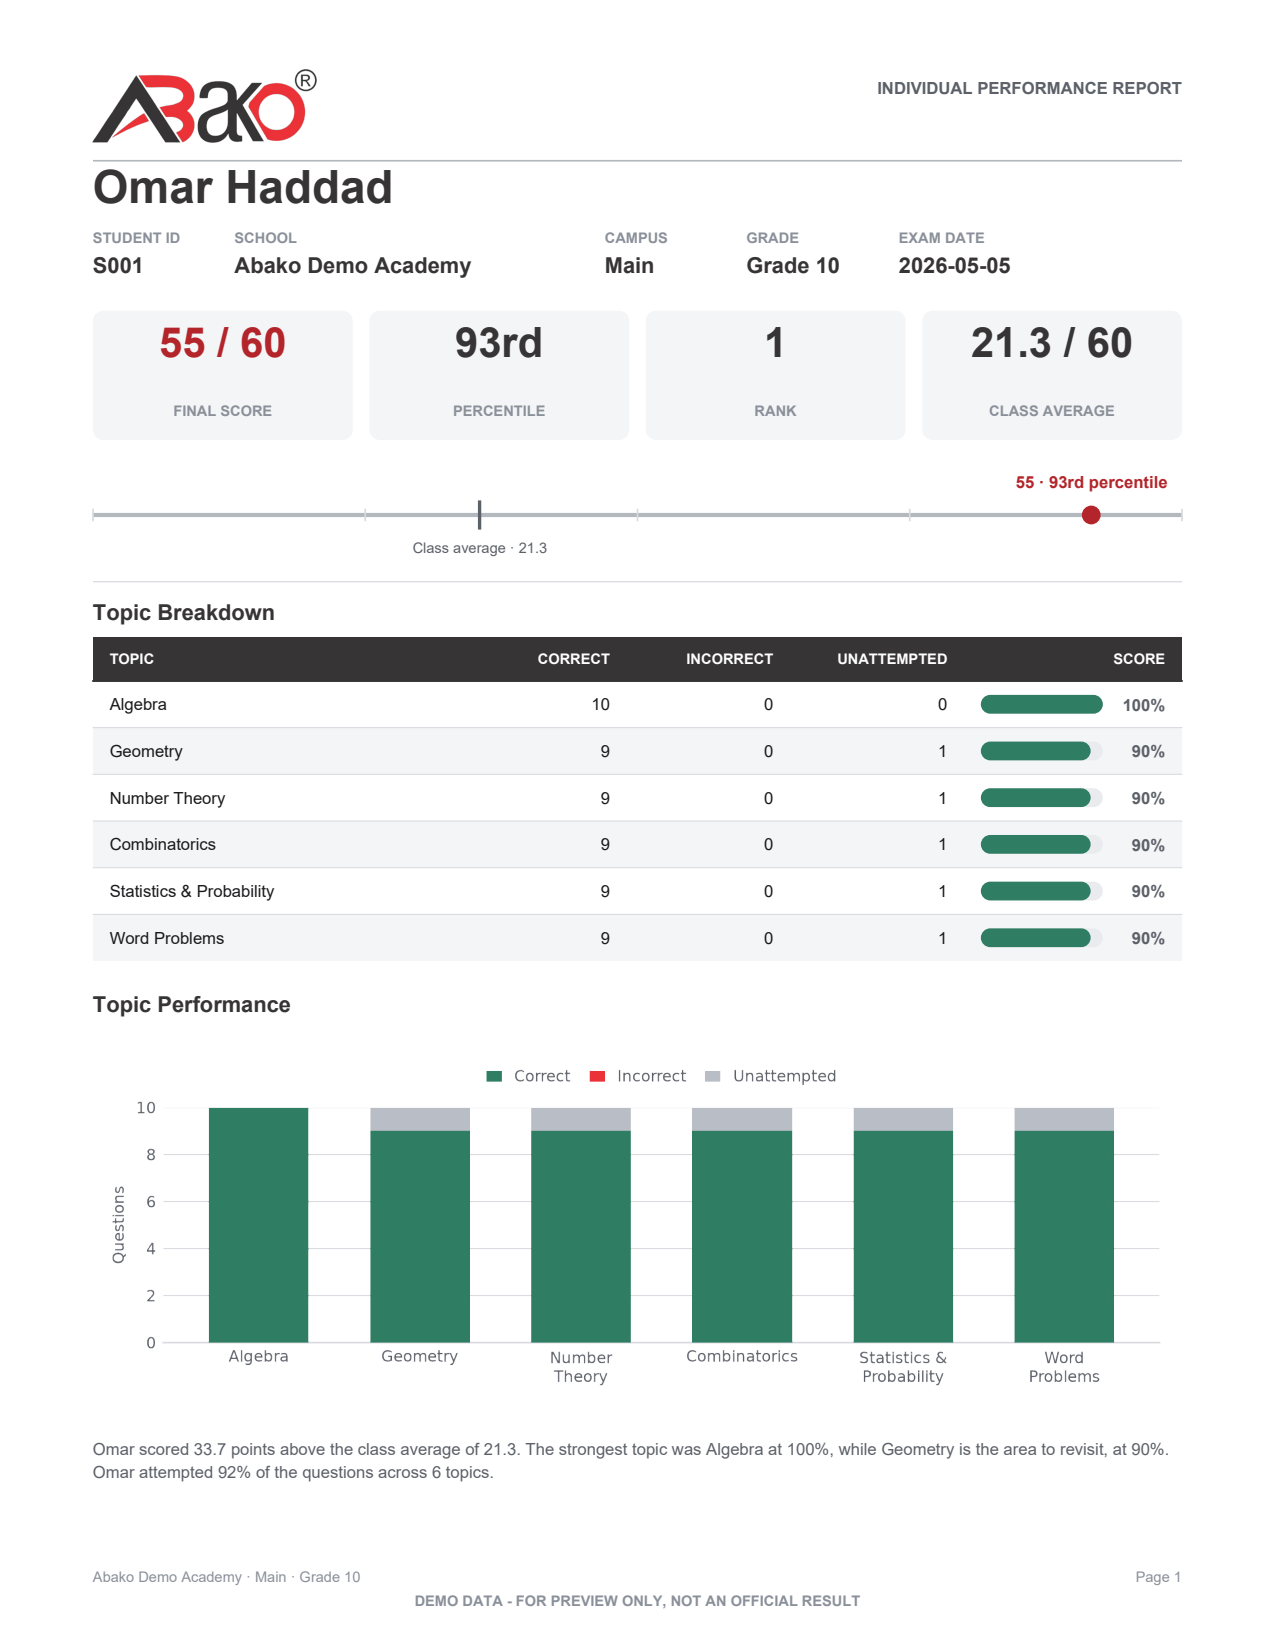
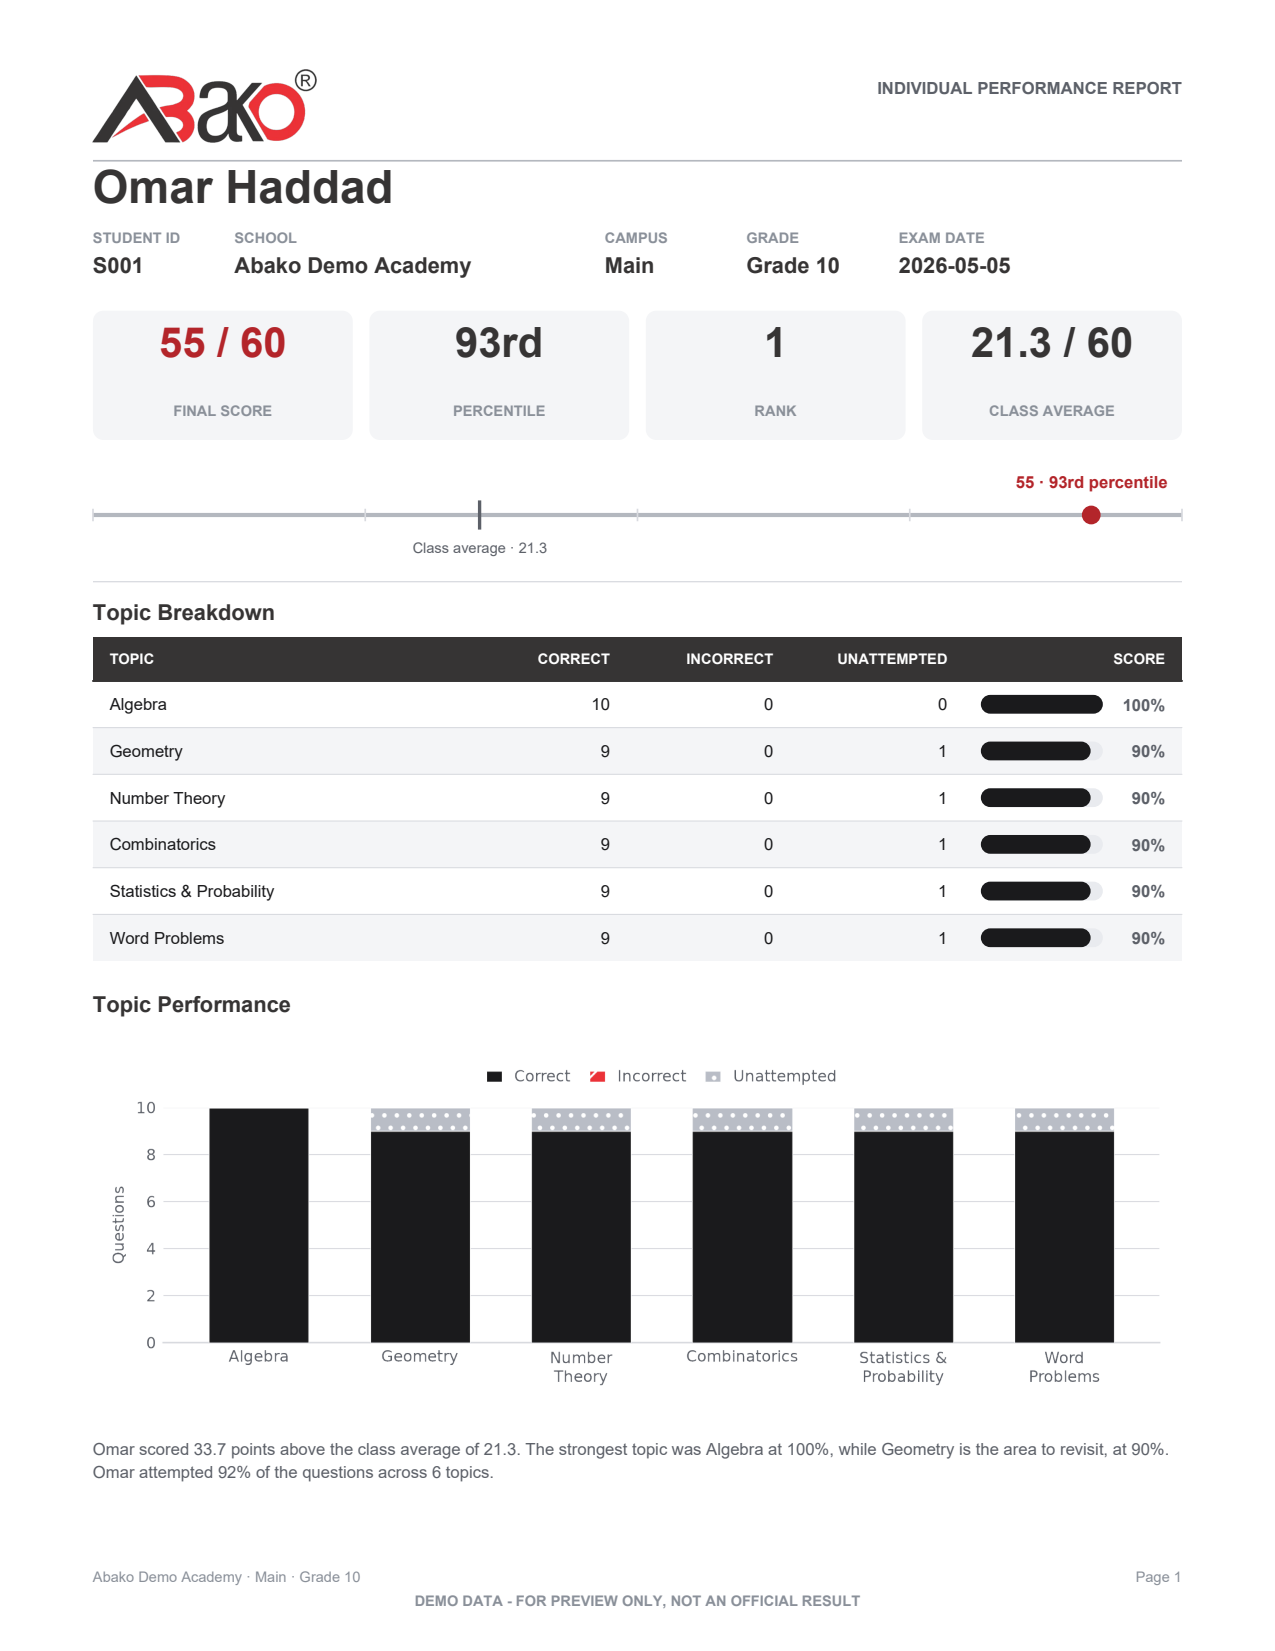
fix: drop green from the report PDFs' correct/incorrect/unattempted colours
Correct is now black, wrong is brand red, and unattempted is grey - green
never appears as the "correct" colour. The topic-performance chart also
gets a hatch per state (solid, diagonal, dotted) so the three states still
separate in greyscale printing or for a colour-blind reader, and the
legend picks the same hatches up automatically. Regenerate the report-card
and school-report previews, and add a regression test that fails if the
correct colour reads as green.

diff --git a/tests/test_content_policy.py b/tests/test_content_policy.py
@@ -5,9 +5,14 @@ so sample data uses Middle Eastern and Western names, never Indian ones.
 This test greps the source tree (not binary PDFs/PNGs, which are
 regenerated by hand and checked visually) for the specific names that used
 to be there.
+
+Also guards the report PDFs' "correct" colour, which must never be green -
+see the answer-state palette in ``backend/pdf_theme.py``.
 """
 
 import os
+
+from backend import pdf_theme as theme
 
 REPO_ROOT = os.path.dirname(os.path.dirname(os.path.abspath(__file__)))
 
@@ -60,3 +65,22 @@ def test_no_banned_names_in_source_tree():
             if banned in text:
                 hits.append((os.path.relpath(path, REPO_ROOT), banned))
     assert not hits, f"Banned name strings found: {hits}"
+
+
+def _is_greenish(hex_color):
+    """True if green is the clearly dominant channel - the definition of
+    "looks green" we care about here, not exact hue matching."""
+    h = hex_color.lstrip("#")
+    r, g, b = (int(h[i:i + 2], 16) for i in (0, 2, 4))
+    return g > r + 15 and g > b + 15
+
+
+def test_correct_colour_is_never_green():
+    correct_hexes = [
+        f"#{int(theme.CORRECT.red * 255):02x}"
+        f"{int(theme.CORRECT.green * 255):02x}"
+        f"{int(theme.CORRECT.blue * 255):02x}",
+        theme.CHART_CORRECT,
+    ]
+    for hex_color in correct_hexes:
+        assert not _is_greenish(hex_color), f"{hex_color} reads as green"

diff --git a/backend/reporter.py b/backend/reporter.py
@@ -195,12 +195,19 @@ def _make_topic_chart(topic_breakdown, all_topics):
     crowded = len(labels) > 7
     fig, ax = plt.subplots(figsize=(7.3, 2.95 if crowded else 2.55))
     x = list(range(len(labels)))
-    ax.bar(x, correct, color=theme.CHART_CORRECT, label="Correct", width=0.62, zorder=3)
+    # Correct/incorrect/unattempted read apart by more than hue alone - a
+    # solid black fill, a red diagonal hatch and a grey dot hatch - so the
+    # three states still separate in greyscale print or for a colour-blind
+    # reader.
+    ax.bar(x, correct, color=theme.CHART_CORRECT, label="Correct", width=0.62,
+          zorder=3, hatch=theme.HATCH_CORRECT, edgecolor="white", linewidth=0.4)
     ax.bar(x, incorrect, bottom=correct, color=theme.CHART_INCORRECT,
-          label="Incorrect", width=0.62, zorder=3)
+          label="Incorrect", width=0.62, zorder=3, hatch=theme.HATCH_INCORRECT,
+          edgecolor="white", linewidth=0.4)
     bottom2 = [cc + ii for cc, ii in zip(correct, incorrect, strict=True)]
     ax.bar(x, unattempted, bottom=bottom2, color=theme.CHART_UNATTEMPTED,
-          label="Unattempted", width=0.62, zorder=3)
+          label="Unattempted", width=0.62, zorder=3, hatch=theme.HATCH_UNATTEMPTED,
+          edgecolor="white", linewidth=0.4)
 
     ax.set_xticks(x)
     if crowded:

diff --git a/backend/pdf_theme.py b/backend/pdf_theme.py
@@ -41,18 +41,29 @@ PANEL = colors.HexColor("#F4F5F7")     # light fill behind stat blocks
 PANEL_DEEP = colors.HexColor("#E9EBEF")
 PAPER = colors.white
 
-# Performance semantics, reused by charts and tables alike.
-CORRECT = colors.HexColor("#2F7D63")
+# Answer-state semantics, reused by the topic chart and table alike.
+# Correct is black (not green - a colour-blind reader and a black-and-white
+# printout both need to tell these three states apart from weight/marks,
+# not hue alone; see apply_answer_hatches below), wrong is brand red, and
+# unattempted is neutral grey.
+CORRECT = colors.HexColor("#1A1A1C")
 INCORRECT = colors.HexColor("#EB3238")
 UNATTEMPTED = colors.HexColor("#B9BDC6")
 
 # Matplotlib needs plain hex strings.
-CHART_CORRECT = "#2F7D63"
+CHART_CORRECT = "#1A1A1C"
 CHART_INCORRECT = "#EB3238"
 CHART_UNATTEMPTED = "#B9BDC6"
 CHART_GRID = "#D8DADF"
 CHART_TEXT = "#5C6068"
 CHART_INK = "#1A1A1C"
+
+# Hatch patterns layered on top of colour for the same three states, so the
+# chart still reads in greyscale or to a colour-blind viewer: correct is a
+# solid fill, incorrect a diagonal hatch, unattempted a sparse dot hatch.
+HATCH_CORRECT = ""
+HATCH_INCORRECT = "//"
+HATCH_UNATTEMPTED = ".."
 
 # --------------------------------------------------------------------------
 # Type
